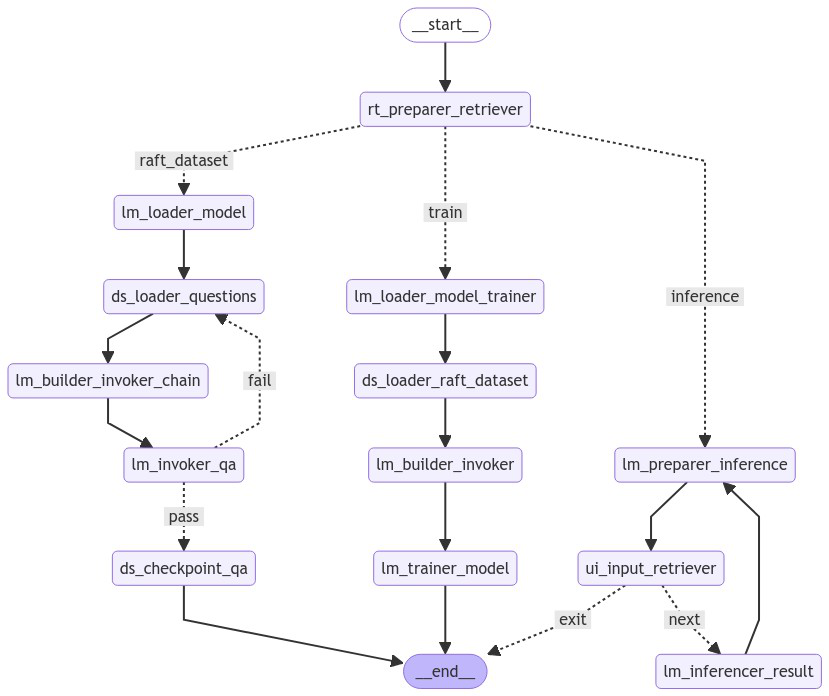
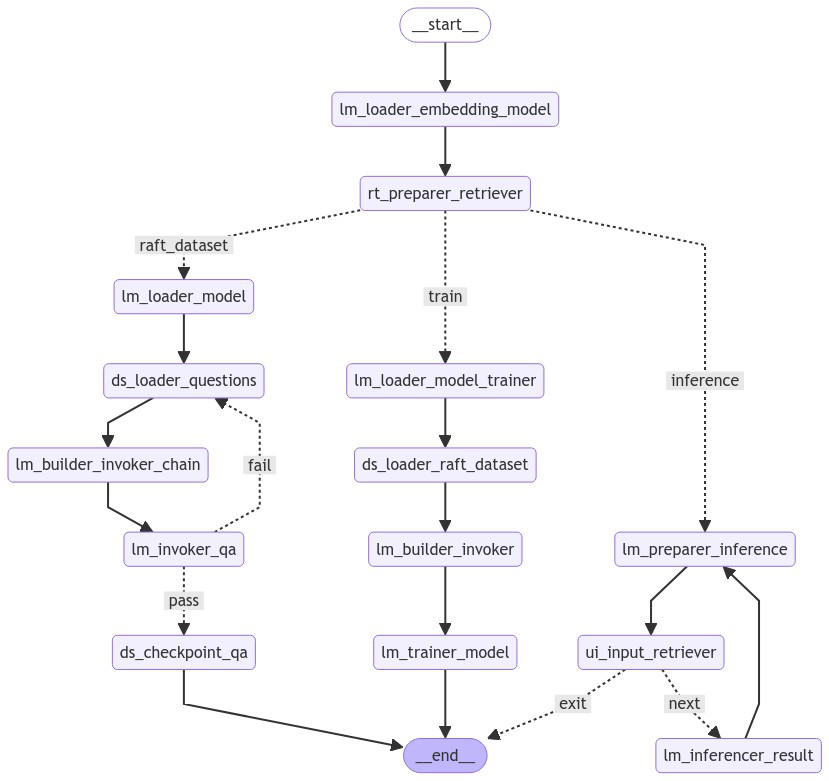
✨ Add embedding model loader node

diff --git a/dqchat/data/retriever.py b/dqchat/data/retriever.py
@@ -9,6 +9,7 @@ import numpy as np
 import torch
 
 from ..core.dataclass.state import State
+from ..utils.type_helper import guard_type
 
 
 class Store:
@@ -17,11 +18,10 @@ class Store:
 
     def __init__(
         self,
-        embedding_model_name: str,
+        embedding_model: SentenceTransformer,
         db_path: str = "db",
         collection_name: str = "dqchat",
     ):
-        embedding_model = SentenceTransformer(embedding_model_name)
         self.embedding_model = embedding_model
 
         chroma = PersistentClient(path=db_path)
@@ -86,8 +86,11 @@ def prepare_retriever(state: State, config: dict) -> State:
     :return: State
     """
     config = config["configurable"]
+
+    embedding_model = guard_type(state.embedding_model, SentenceTransformer)
+
     store = Store(
-        embedding_model_name=config["embedding_model_name"],
+        embedding_model=embedding_model,
         db_path=config["vector_db_path"],
         collection_name=config["vector_db_collection_name"],
     )

diff --git a/dqchat/core/nodes.py b/dqchat/core/nodes.py
@@ -12,6 +12,7 @@ from ..features.dataset_generator import (
 from ..features.trainer import prepare_train, train
 from ..llm import (
     load_model,
+    load_embedding_model,
     prepare_for_inference,
     inference,
     retrieve_input,
@@ -31,6 +32,8 @@ class Nodes(Enum):
     - `rt` for retriever nodes
     """
 
+    EMBEDDING_MODEL_LOADER = "lm_loader_embedding_model"
+    """Embedding model loader node"""
     RETRIEVER_PREPARER = "rt_preparer_retriever"
     """VectorDB retriever preparation node"""
     RUNMODE_CHECKER = "c_check_runmode"
@@ -108,7 +111,9 @@ class Nodes(Enum):
         Get the runnable for the node.\n
         :return: Runnable for the node
         """
-        if self is Nodes.RETRIEVER_PREPARER:
+        if self is Nodes.EMBEDDING_MODEL_LOADER:
+            return load_embedding_model
+        elif self is Nodes.RETRIEVER_PREPARER:
             return prepare_retriever
         elif self is Nodes.RUNMODE_CHECKER:
             return check_runmode

diff --git a/dqchat/core/graph.py b/dqchat/core/graph.py
@@ -16,7 +16,11 @@ class GraphBuilder:
             self.graph.add_node(*node.node_action_binding)
 
         # Add edges to the graph
-        self.graph.add_edge(start_key=START, end_key=Nodes.RETRIEVER_PREPARER.key)
+        self.graph.add_edge(start_key=START, end_key=Nodes.EMBEDDING_MODEL_LOADER.key)
+        self.graph.add_edge(
+            start_key=Nodes.EMBEDDING_MODEL_LOADER.key,
+            end_key=Nodes.RETRIEVER_PREPARER.key,
+        )
         # https://langchain-ai.github.io/langgraph/concepts/low_level/#conditional-edges
         self.graph.add_conditional_edges(
             source=Nodes.RETRIEVER_PREPARER.key,

diff --git a/dqchat/llm/__init__.py b/dqchat/llm/__init__.py
@@ -4,4 +4,7 @@ from .inference import (
     retrieve_input as retrieve_input,
     validate_input as validate_input,
 )
-from .loader import load_model as load_model
+from .loader import (
+    load_model as load_model,
+    load_embedding_model as load_embedding_model,
+)
